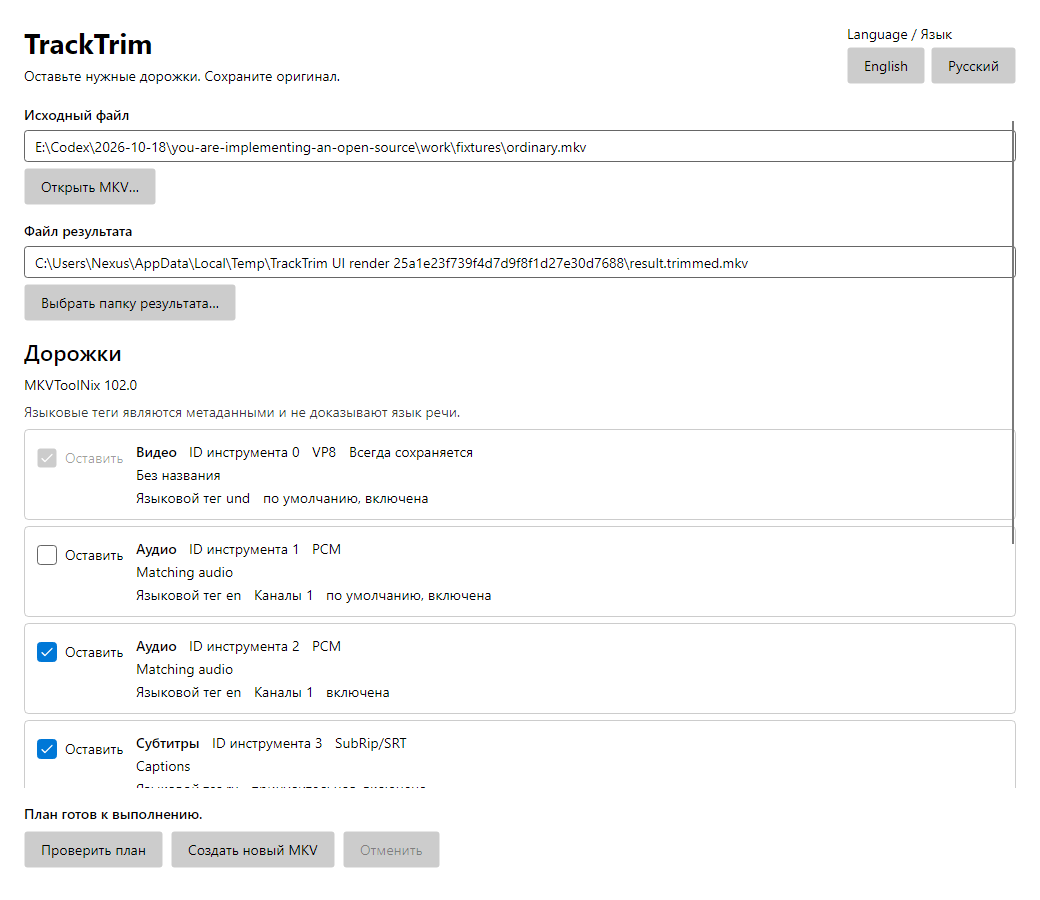
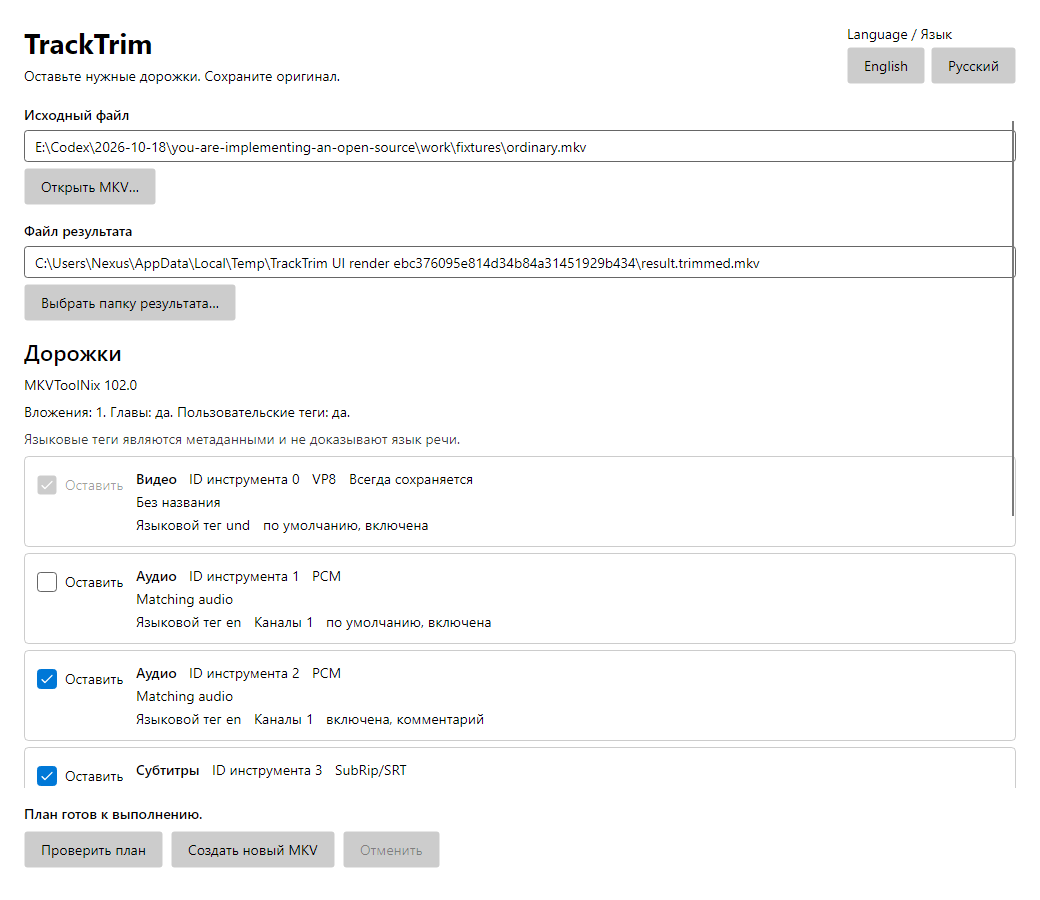
docs: record verified portable workflows and acceptance gaps

Changed region(s): [[0.0308, 0.4356, 0.9538, 0.8711], [0.3692, 0.28, 0.7385, 0.3111]]

diff --git a/docs/PLAN.md b/docs/PLAN.md
@@ -14,41 +14,45 @@ Scope stops before Phase 2. Implemented code, an executed test, and acceptance o
 | Acceptance | State | Evidence / remaining work |
 | --- | --- | --- |
 | Four-project dependency graph; .NET 10; stable aligned Avalonia; explicit composition | Verified by build/tests | Final locked restore, format verification, and Release build completed with 0 warnings and 0 errors. |
-| Pinned SDK, runtime, package versions, lockfiles | Verified for Windows package | SDK 10.0.402 and runtime 10.0.13 are separate pins. Desktop locked restore and self-contained publish completed successfully. Full-solution checks are recorded below. |
-| English-first and live English/Russian switching/persistence | Headless verified; desktop pending | Desktop suite 20/20; real-backend English/Russian headless renders at normal/narrow widths. Native desktop acceptance remains pending. |
-| Pinned MKVToolNix acquisition/version/identification | Verified on Windows developer host | 102.0 executables ran; official Windows archive SHA256 matched; real fixture identification reported format 20. |
-| Portable Windows proof | Verified on Windows developer host; target acceptance pending | Self-contained ZIP built, relocated, and completed the actual workflow; Windows 11 25H2 clean desktop remains unverified. |
-| Linux closure without FUSE at runtime | Implemented; runtime pending | Build-time AppImage extraction, retained native tree, dependency report. Must execute on Ubuntu 24.04. |
-| CI required media integration and platform archives | Implemented; run pending | Archives are built/tested locally on runners; only test/provenance evidence is uploaded while redistribution obligations remain unresolved. A definition is not a passing CI run. |
+| Pinned SDK, runtime, package versions, lockfiles | Verified on Windows and Linux runners | SDK 10.0.402 and runtime 10.0.13 are separate pins. Locked restore and self-contained publishing completed successfully on both platforms. |
+| English-first and live English/Russian switching/persistence | Headless verified; desktop pending | Desktop suite 25/25 on production source `c063a25f63d3910cda95421588f69a7662a87684`; real-backend English/Russian headless renders at normal/narrow widths. Native desktop acceptance remains pending. |
+| Pinned MKVToolNix acquisition/version/identification | Verified on Windows and Linux runners | 102.0 executables ran; both pinned archive hashes matched; real fixture identification reported format 20. |
+| Portable Windows proof | Verified on developer host and Windows Server CI; target desktop pending | Self-contained ZIP built, relocated, and completed the actual workflow; Windows 11 25H2 clean desktop remains unverified. |
+| Linux closure without FUSE at runtime | Verified on Ubuntu 24.04.5 runner and no-SDK container | AppImage build-time extraction, retained native closure, self-contained archive, manifest/relocation and real workflow passed. The clean container also passed under an ASCII parent locale with Cyrillic paths, no network and no root. |
+| CI required media integration and platform archives | Verified | Both jobs passed in CI run `39084885603` on production source `c063a25f63d3910cda95421588f69a7662a87684`. Archives remain local to runners; only evidence is uploaded while redistribution obligations remain unresolved. |
 
 ## Phase 1 — one MKV workflow
 
 | Checkpoint | State | Required acceptance evidence |
 | --- | --- | --- |
-| 1. Actual inspection, bilingual inspector, Keep semantics | Verified in backend/headless tests | Pinned real MKV identification and 20/20 Desktop tests; native dialogs remain pending. |
-| 2. Immutable plan/review, source/destination validation, actual progress/cancellation | Verified on Windows test host | Core 8/8, Application 25 passed / 1 Linux-only skip, process tests and real MKV integration. Linux FIFO check must run in Linux CI. |
+| 1. Actual inspection, bilingual inspector, Keep semantics | Verified in backend/headless tests | Pinned real MKV identification and 25/25 Desktop tests, including explicit resulting default-audio status; native dialogs remain pending. |
+| 2. Immutable plan/review, source/destination validation, actual progress/cancellation | Verified on Windows and Linux runners | Core 8/8; Application Windows 26 passed / 1 Linux-only skip, Linux 27/27; process tests and real MKV integration. Linux FIFO rejection ran successfully. |
 | 3. Verification, warning review, no-overwrite publication, cleanup/journal | Verified for documented fixture/failure subset | Infrastructure 26/26 including 6 real-media cases; deterministic warning/race/failure tests. Simulated warnings remain separate from a real mkvmerge warning remux. |
-| 4. Relocated archives and factual platform evidence | Windows developer-host verified; Linux pending | Actual packaged workflow and ZIP relocation completed on the available Windows host. Clean target desktop acceptance remains separate. |
+| 4. Relocated archives and factual platform evidence | Windows/Linux runner and no-SDK Linux container verified; desktops pending | Actual packaged workflow and archive relocation completed on both runners; the no-SDK container passed its Unicode regression. Clean target desktop acceptance remains separate. |
 
 ## Executed evidence
 
-The completed local checks are recorded below. CI links/results remain pending until its actual run completes; pending rows are not passing checks.
+The completed local checks and full CI run used production source `c063a25f63d3910cda95421588f69a7662a87684`. The checked-in documentation may receive later evidence-only changes; this SHA identifies the tested production implementation.
 
 | Command/check | Result |
 | --- | --- |
 | `dotnet restore --locked-mode` | Passed on the final production source. |
 | `dotnet format --verify-no-changes --no-restore` | Passed on the final production source. |
 | `dotnet build --configuration Release --no-restore` | Passed: 0 warnings, 0 errors. |
-| `dotnet test --configuration Release --no-build --no-restore` | Whole-solution run: 78 passed, 1 Linux-only skip. After the final tag-regression test/attachment description change, Infrastructure rerun passed 26/26 and Desktop rerun passed 20/20. Current tested aggregate: **79 passed, 1 Linux-only skip** across Core 8, Application 25 + 1 skip, Infrastructure 26, Desktop 20. |
-| Actual pinned `mkvmerge`/`mkvextract` integration | 6 real-media Infrastructure cases passed, including exact retained VP8/PCM/SRT extraction, ordinary semantic XML, attachment payload hashing, multiple video and source preservation. This is separate from deterministic simulated warning/failure coverage. |
[1 lines of base64/hex data omitted]
-| Linux packaged/relocated actual workflow | Pending Linux CI/runtime execution. |
-| Linux CLI package in no-SDK/native-libraries-only container | Implemented; unrun locally because Docker is unavailable. CI must run it with the pinned Ubuntu 24.04 image, no network and a non-root user; record actual result separately from Desktop acceptance. |
+| `dotnet test --configuration Release --no-build --no-restore` | Windows local/CI: **85 passed, 1 Linux-only skip** out of 86: Core 8, Application 26 + 1 skip, Infrastructure 26, Desktop 25. Linux CI: **86/86 passed**, including the actual FIFO rejection (Application 27/27). |
+| Actual pinned `mkvmerge`/`mkvextract` integration | 6 real-media Infrastructure cases passed on both runners, including exact retained VP8/PCM/SRT extraction, ordinary semantic XML, attachment payload hashing, multiple video and source preservation. This is separate from deterministic simulated warning/failure coverage. |
[3 lines of base64/hex data omitted]
 | Real desktop file picker, focus/scaling, close during work, both languages | Pending platform-specific execution. |
+
+[CI run 39084885603](https://github.com/Nexusov/TrackTrim/actions/runs/39084885603) **passed both platform jobs**, including mandatory real-media tests, self-contained archives, relocation checks, and the complete no-SDK Linux container workflow. It tested production source `c063a25f63d3910cda95421588f69a7662a87684`.
 
 ## Platform record and remaining acceptance
 
 The available host is **Windows 10 Home Single Language 22H2 x64, build 19045.6456**. Windows acquisition, self-contained publishing, native CLI startup, actual packaged workflow, and relocated archive workflow ran there. The archive includes .NET runtime **10.0.13**, published by SDK **10.0.402**, with the actual version checked in `TrackTrim.runtimeconfig.json`. Developer runtime/tool override variables were removed for packaged tests; the system still has a development SDK, so this is not a clean no-SDK machine acceptance.
+
+Executed CI environments were **Windows Server 2025 Datacenter 10.0.26100**, runner image `windows-2025-vs2026` version `20261007.264.1`, and **Ubuntu 24.04.5 LTS**, runner image `ubuntu-24.04` version `20261012.334.1`. The pinned native-libraries-only container also reports Ubuntu 24.04.5 LTS; its exact base digest, `dpkg-query` versions, user, parent locale and unchanged source hash are retained in [the captured container environment](verification/linux-container-environment.txt). These are CLI/headless checks, not native desktop sessions.
 
 Executed packaging checks used the pinned SDK, fixture, and verified cache in the workspace's `work` directory (shown with reproducible path resolution):
 
@@ -62,6 +66,8 @@ Packaging performs the declared-RID locked restore without a global runtime over
 
 The intended first targets remain **Windows 11 x64 25H2** and **Ubuntu 24.04 x64 Desktop using X11/XWayland**. Neither clean target desktop has been exercised locally. Native UI automation initialization failed before a desktop check could run (`failed to write kernel assets`, OS error 3); file picker/scaling/real desktop shutdown checks remain unavailable. Linux cross-publication and headless tests are not Linux desktop runtime acceptance.
 
-Unverified areas remain: clean systems without SDK or installed media tools; native dialogs and scaling; behavior on removable/network filesystems and power loss; native Wayland; uncommon metadata outside the supported matrix; real mkvmerge warning-remux coverage if only a simulated exit-1 helper is available; complete corresponding-source distribution and original application license selection. Restart cleanup is deliberately conservative: if a recovered candidate still exists, worker termination cannot be proved and cleanup is unavailable. The source can be processed again as a fresh operation; old candidates are never automatically published or deleted.
+Unverified areas remain: a clean Windows 11 target without installed SDK/media tools; native dialogs and scaling on both intended desktops; behavior on removable/network filesystems and power loss; native Wayland; uncommon metadata outside the supported matrix; a real mkvmerge warning-remux fixture (warning approval/discard logic is verified with deterministic simulation); complete corresponding-source distribution and original application license selection. **Known preservation gap:** actual pinned 102.0 JSON does not expose `SegmentFamily`, and a generated retention remux dropped it. Family-linked files are outside the supported subset; current preflight cannot guarantee their rejection. Closing that detection gap is part of the next bounded acceptance task.
+
+Restart cleanup is deliberately conservative: if a recovered candidate still exists, worker termination cannot be proved and cleanup is unavailable. The source can be processed again as a fresh operation; old candidates are never automatically published or deleted.
 
 Public release readiness is blocked by the unresolved licensing/source-distribution review and any unmet platform/safety acceptance above. The next bounded task after this implementation is to close the recorded Phase 0/1 acceptance gaps, not to begin batch processing or MP4.

diff --git a/README.md b/README.md
@@ -16,6 +16,8 @@ The application uses C#/.NET 10, Avalonia 12 with Fluent controls, CommunityTool
 
 Do not use the application as a universal preservation tool. The [supported MKV matrix](docs/SUPPORTED_FORMATS.md) defines the inspected, verified, and rejected cases. MP4, batch input, folders, presets, playback, source replacement, and recovery/resume of a batch queue are outside this implementation.
 
+Known preservation gap: Matroska segment families (`SegmentFamily`) are outside the supported subset. The current probe cannot reliably detect them, and a real remux dropped that relationship. This build must not be used for family-linked files.
+
 These are headless renders of the compiled Fluent view after real MKV inspection, in English and Russian. Native desktop acceptance remains pending.
 
 ![English TrackTrim inspector with real video, two audio tracks, and subtitles](docs/images/tracktrim-en.png)
@@ -24,7 +26,7 @@ These are headless renders of the compiled Fluent view after real MKV inspection
 
 ## Build and run
 
-Install the exact stable SDK in `global.json` and PowerShell 7 for the build scripts. No media tools are downloaded by the running application. Acquisition is an explicit developer/build operation:
+Install the exact stable SDK in `global.json`, PowerShell 7, and Python 3 for the build scripts (Python 3.9+ with standard-library `tarfile`/XZ support; the local verification used Python 3.13.0). Python extracts pinned source notices and generates original fixtures; it is not an application runtime dependency. No media tools are downloaded by the running application. Acquisition is an explicit developer/build operation:
 
 ```powershell
 pwsh ./build/acquire-tools.ps1 -RuntimeIdentifier win-x64 -Destination ./tools
@@ -64,7 +66,7 @@ pwsh ./build/verify-package.ps1 -ArchivePath ./artifacts/TrackTrim-win-x64.zip -
 
 This runs the actual packaged entry point from an unrelated working directory, tests a path containing spaces/Cyrillic/metacharacters, performs the real application workflow, and hashes the source before/after. It does not establish native dialogs, scaling, or clean-machine desktop acceptance.
 
-Linux CI also defines a CLI check in a pinned Ubuntu 24.04 container with native OS libraries, no installed SDK/runtime/media commands, no network, and a non-root runtime user. Run it with `bash ./build/verify-clean-linux.sh ./artifacts/TrackTrim-linux-x64.tar.gz ./artifacts/fixtures/ordinary.mkv`. It records the exact base image and installed package versions. See `PLAN.md` for actual execution; a container CLI check is separate from Ubuntu Desktop acceptance.
+Linux CI also verifies the actual workflow in a pinned Ubuntu 24.04 container with native OS libraries, no installed SDK/runtime/media commands, no network, and a non-root runtime user. Run it with `bash ./build/verify-clean-linux.sh ./artifacts/TrackTrim-linux-x64.tar.gz ./artifacts/fixtures/ordinary.mkv`. The successful check records the exact base image, installed package versions, user, and ASCII parent locale (`C`); the native worker boundary handles Cyrillic paths independently. See [PLAN](docs/PLAN.md) for executed evidence; a container CLI check is separate from Ubuntu Desktop acceptance.
 
 Settings, bounded logs, and temporary-output ownership records are stored in `data` relative to the executable. An unwritable data directory is an error for media writes; the application must not silently redirect to a user profile. Startup recovery offers validated owned-temporary cleanup, never automatic publication or byte resume.
 

diff --git a/CONTRIBUTING.md b/CONTRIBUTING.md
@@ -1,6 +1,6 @@
 # Contributing
 
-Use the stable SDK pinned by `global.json`, PowerShell 7, Git, and an editor with C#/XAML support. Use the same central package versions as the application and restore committed lockfiles. Updating a dependency is a deliberate, independently reviewable change; regenerate the affected locks and rerun verification.
+Use the stable SDK pinned by `global.json`, PowerShell 7, Python 3.9+ with standard-library `tarfile`/XZ support, Git, and an editor with C#/XAML support. Local verification used Python 3.13.0 and PowerShell 7.6.5. Python is required only for explicit source-notice extraction and fixture generation; no Python runtime is bundled or required by the application. Use the same central package versions as the application and restore committed lockfiles. Updating a dependency is a deliberate, independently reviewable change; regenerate the affected locks and rerun verification.
 
 ## Local checks
 
@@ -47,7 +47,7 @@ Run the Linux equivalents on Linux. Packaging verifies the shipped runtime versi
 
 The relocation test clears development runtime/tool variables, changes the working directory, exercises spaces/Cyrillic/metacharacters, and verifies that the source hash remains unchanged. It cannot prove the host lacks an installed SDK; clean target-system acceptance remains a separate check. Native file pickers, keyboard focus, scaling, shutdown during work, and both-language layouts require a real desktop session.
 
-On a Linux developer/CI host with Docker, run `bash ./build/verify-clean-linux.sh ./artifacts/TrackTrim-linux-x64.tar.gz ./artifacts/fixtures/ordinary.mkv`. The image uses the pinned official Ubuntu 24.04 amd64 digest in `build/portable-smoke.Dockerfile`, installs only native OS libraries during image construction, then runs the packaged CLI without root or networking. It asserts that `dotnet`, MKVToolNix, and FFmpeg commands are not installed separately. The exact distro/package list and workflow log are retained under `artifacts/clean Linux Кириллица.*/evidence`. Docker is a development/CI dependency only; the distributed application does not use containers.
+On a Linux developer/CI host with Docker, run `bash ./build/verify-clean-linux.sh ./artifacts/TrackTrim-linux-x64.tar.gz ./artifacts/fixtures/ordinary.mkv`. The image uses the pinned official Ubuntu 24.04 amd64 digest in `build/portable-smoke.Dockerfile`, installs only native OS libraries during image construction, then runs the packaged CLI without root or networking. It asserts that `dotnet`, MKVToolNix, and FFmpeg commands are not installed separately. The ASCII parent locale (`LANG=C`, `LC_ALL=C`, `LC_CTYPE=C`) deliberately tests that the native worker boundary handles Unicode independently of the inherited locale. The exact distro/package list, user/locale, and workflow log are retained under `artifacts/clean Linux Кириллица.*/evidence`. Docker is a development/CI dependency only; the distributed application does not use containers.
 
 ## Changes and licensing
 

diff --git a/docs/SUPPORTED_FORMATS.md b/docs/SUPPORTED_FORMATS.md
@@ -24,7 +24,9 @@ Whole-container byte equality is not expected. Remuxing changes file layout, ind
 
 ## Rejected or outside the checked subset
 
-Detected next/previous segment links or segment families, ordered chapters, chapter segment/edition/track/process references, uncommon track types, and tag records with multiple TrackUID targets, mixed track/non-track targets, or dangling nonzero TrackUIDs are rejected. The parser also rejects known advanced luminance/chromaticity/white-point fields, HDR/Dolby Vision properties exposed by identification, and PQ/HLG transfer characteristics. These are concrete property checks, not restrictions inferred from a codec or filename. An identification warning is a preflight failure.
+Detected next/previous segment links, ordered chapters, chapter segment/edition/track/process references, uncommon track types, and tag records with multiple TrackUID targets, mixed track/non-track targets, or dangling nonzero TrackUIDs are rejected. Actual pinned-tool probes confirmed that next/previous link properties are exposed to the current preflight. The parser also rejects known advanced luminance/chromaticity/white-point fields, HDR/Dolby Vision properties exposed by identification, and PQ/HLG transfer characteristics. These are concrete property checks, not restrictions inferred from a codec or filename. An identification warning is a preflight failure.
+
+**SegmentFamily is a known detection/preservation gap.** A generated MKV with a `SegmentFamily` Info element was visible to the development distribution's `mkvinfo`, while pinned 102.0 identification JSON format 20 did not expose it. A real retention remux then dropped that element. The application therefore cannot establish its absence, reject every family-linked input, or verify its preservation. Family-linked files are outside the supported subset; the current preflight must not be described as a universal standalone/linked-container guarantee. The development-only `mkvinfo` observation does not add a production dependency.
 
 Unknown optional fields can be ignored only if they cannot weaken a required capability check. The current probe cannot enumerate every unknown/private Matroska element or prove that all Dolby Vision/HDR metadata is detectable; no universal container fidelity claim is made. Ordinary SDR fixture coverage does not prove HDR preservation.
 
